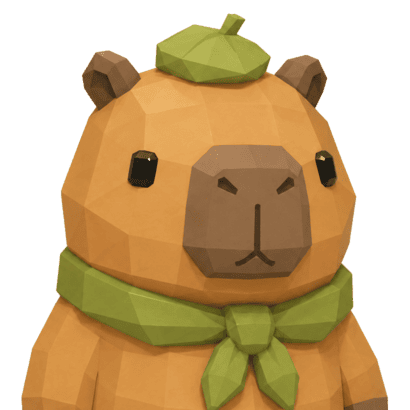
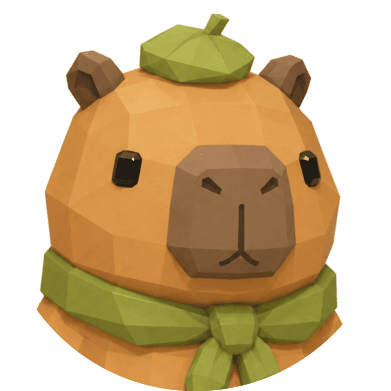
fix 头像

diff --git a/src/components/ui/CapyAvatar.tsx b/src/components/ui/CapyAvatar.tsx
@@ -1,8 +1,8 @@
 "use client";
 
-// The companion's portrait avatar. Framed usages still crop the original
-// full-body reference art; the home HUD uses a transparent headshot cutout so it
-// reads like a sticker instead of a boxed avatar.
+// The companion's portrait avatar. Framed usages crop the full-body reference
+// art; the home HUD ("sticker") frames the headshot cutout inside a circle that
+// sits neatly within the wood pill (no longer poking out as a loose sticker).
 
 import capyArt from "@/asset/Character/Capybanana.png";
 import capyHead from "@/asset/Character/CapybananaHead.png";
@@ -15,19 +15,21 @@ export default function CapyAvatar({
   className?: string;
   /** "full" for a circle, "tile" for a rounded square. */
   rounded?: "full" | "tile";
-  /** "sticker" removes the hard avatar crop for HUD headshot usage. */
+  /** "sticker" = circular headshot for the home HUD pill. */
   variant?: "framed" | "sticker";
 }) {
   if (variant === "sticker") {
     return (
-      <span className={`relative block overflow-visible ${className}`}>
+      <span
+        className={`relative block overflow-hidden rounded-full bg-[#f6edd6] shadow-[inset_0_0_0_2px_rgba(255,255,255,0.55),inset_0_-2px_5px_rgba(125,86,40,0.12)] ${className}`}
+      >
         {/* eslint-disable-next-line @next/next/no-img-element */}
         <img
           src={capyHead.src}
           alt=""
           aria-hidden="true"
           draggable={false}
-          className="absolute left-1/2 top-1/2 h-[112%] w-[112%] max-w-none -translate-x-1/2 -translate-y-1/2 select-none object-contain drop-shadow-[0_7px_10px_rgba(107,76,39,0.18)]"
+          className="absolute left-1/2 top-1/2 h-[114%] w-[114%] max-w-none -translate-x-1/2 -translate-y-[48%] select-none object-contain"
         />
       </span>
     );

diff --git a/src/components/screens/HomeScreen.tsx b/src/components/screens/HomeScreen.tsx
@@ -245,11 +245,9 @@ export default function HomeScreen() {
           initial={{ opacity: 0, y: -8 }}
           animate={{ opacity: 1, y: 0 }}
           transition={{ duration: 0.4, ease: "easeOut" }}
-          className="ui-wood-surface ui-wood-press pointer-events-auto relative flex h-[62px] w-[252px] max-w-[calc(100%-94px)] items-center rounded-[31px] py-2 pl-[76px] pr-3.5 text-left"
+          className="ui-wood-surface ui-wood-press pointer-events-auto flex h-[60px] w-fit max-w-[calc(100%-94px)] items-center gap-2.5 rounded-[30px] py-2 pl-2 pr-4 text-left"
         >
-          <span className="pointer-events-none absolute -left-1 top-1/2 h-[76px] w-[76px] -translate-y-1/2">
-            <CapyAvatar variant="sticker" className="h-full w-full" />
-          </span>
+          <CapyAvatar variant="sticker" className="h-[44px] w-[44px] shrink-0" />
           <span className="min-w-0">
             <span className="block truncate font-hand text-[20px] leading-none text-[#4f3828]">
               {companion.name}